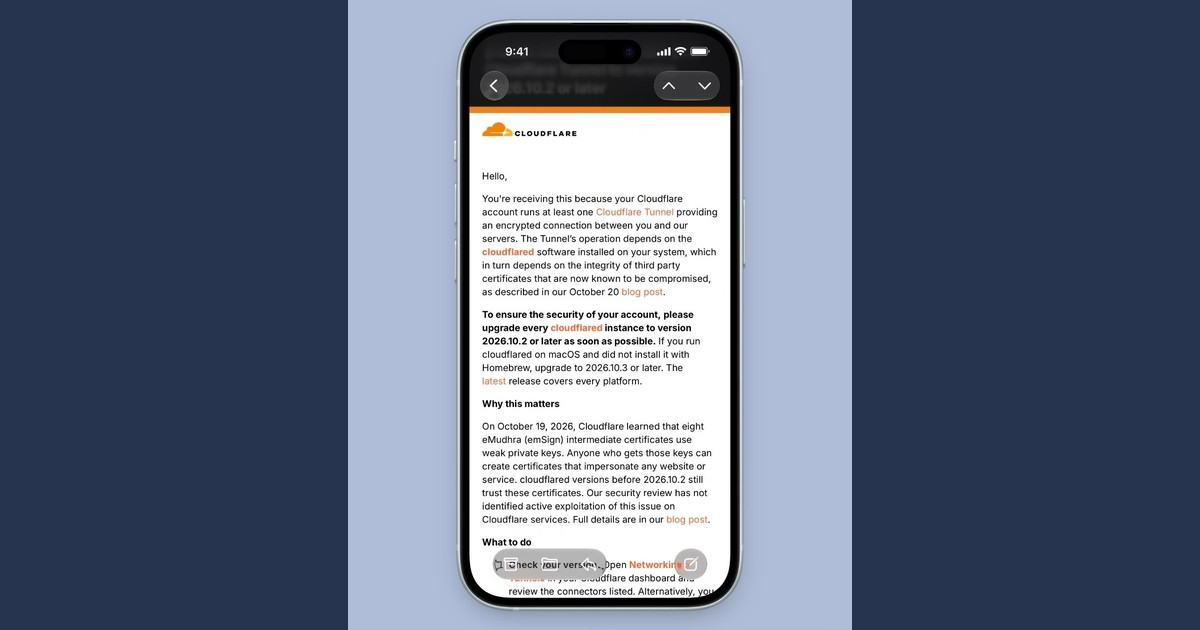
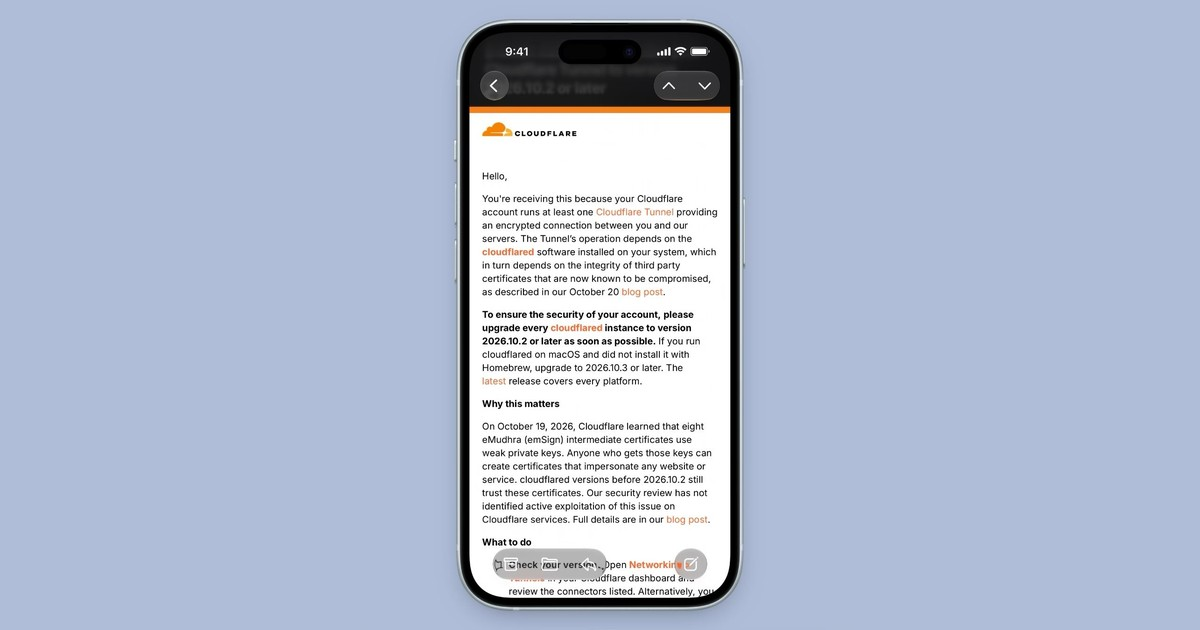
Use dark theme primary for OG fill and quarter size original thumbnails

diff --git a/blog/index.html b/blog/index.html
@@ -9,4 +9,4 @@
 <link rel="canonical" href="https://amansanoj.is-a.dev/blog/"></head><body><a class="skip" href="#main">Skip to Content</a><header>
   <a class="home" href="/#">Aman Sanoj</a>
   <nav aria-label="Main navigation"><a href="/#projects">Projects</a><a href="/#about">About</a><a href="/blog/">Blog</a><a href="mailto:me@amansanoj.com">Email</a></nav>
-</header><main id="main"><div class="blog-intro"><h1>Blog</h1></div><ul class="post-list"><li class="post-entry has-cover"><a class="post-cover-link" href="/blog/2026-11-09-the-emudhra-certificate-compromise-why-updating-your-browser-isnt-enough/" aria-label="The eMudhra Certificate Compromise: Why Updating Your Browser Isn’t Enough"><img class="post-cover-preview" src="/blog/2026-11-09-the-emudhra-certificate-compromise-why-updating-your-browser-isnt-enough/thumbnail.jpg" width="600" height="315" alt="" loading="lazy"></a><div class="post-entry-text"><time class="post-date" datetime="2026-11-09">09 November 2026</time><h2><a href="/blog/2026-11-09-the-emudhra-certificate-compromise-why-updating-your-browser-isnt-enough/">The eMudhra Certificate Compromise: Why Updating Your Browser Isn’t Enough</a></h2></div></li><li class="post-entry"><div class="post-entry-text"><time class="post-date" datetime="2026-10-03">03 October 2026</time><h2><a href="/blog/2026-10-03-courses-school-visits-and-classroom-discussions/">Courses, School Visits, and Classroom Discussions</a></h2></div></li><li class="post-entry"><div class="post-entry-text"><time class="post-date" datetime="2026-08-28">28 August 2026</time><h2><a href="/blog/2026-08-28-a-daily-coding-routine-with-neetcode/">A Daily Coding Routine with NeetCode</a></h2></div></li><li class="post-entry"><div class="post-entry-text"><time class="post-date" datetime="2026-07-19">19 July 2026</time><h2><a href="/blog/2026-07-19-recovering-my-iphone-after-a-beta-update/">Recovering My iPhone After a Beta Update</a></h2></div></li><li class="post-entry"><div class="post-entry-text"><time class="post-date" datetime="2026-07-11">11 July 2026</time><h2><a href="/blog/2026-07-11-transferring-files-to-an-iphone-with-vlc/">Transferring Files to an iPhone with VLC</a></h2></div></li><li class="post-entry"><div class="post-entry-text"><time class="post-date" datetime="2026-07-02">02 July 2026</time><h2><a href="/blog/2026-07-02-building-clarityai/">Building ClarityAI at the USAII Hackathon</a></h2></div></li><li class="post-entry"><div class="post-entry-text"><time class="post-date" datetime="2026-05-22">22 May 2026</time><h2><a href="/blog/2026-05-22-reporting-an-authorization-bug-in-the-cbse-pvr-portal/">Reporting an Authorization Bug in the CBSE PVR Portal</a></h2></div></li><li class="post-entry"><div class="post-entry-text"><time class="post-date" datetime="2025-06-07">07 June 2025</time><h2><a href="/blog/2025-06-07-building-gardenx-for-a-school-farm/">Building GardenX for a School Farm</a></h2></div></li></ul></main><footer><span>© <span id="year">2026</span> Aman Sanoj</span><label class="theme-control" for="theme"><span class="theme-icon theme-system"><svg class="icon" aria-hidden="true" focusable="false" xmlns="http://www.w3.org/2000/svg" viewBox="0 0 256 256" fill="currentColor"><path d="M224,64v88H32V64A16,16,0,0,1,48,48H208A16,16,0,0,1,224,64Z" opacity="0.2"/><path d="M208,40H48A24,24,0,0,0,24,64V176a24,24,0,0,0,24,24h72v16H96a8,8,0,0,0,0,16h64a8,8,0,0,0,0-16H136V200h72a24,24,0,0,0,24-24V64A24,24,0,0,0,208,40ZM48,56H208a8,8,0,0,1,8,8v80H40V64A8,8,0,0,1,48,56ZM208,184H48a8,8,0,0,1-8-8V160H216v16A8,8,0,0,1,208,184Z"/></svg></span><span class="theme-icon theme-light"><svg class="icon" aria-hidden="true" focusable="false" xmlns="http://www.w3.org/2000/svg" viewBox="0 0 256 256" fill="currentColor"><path d="M184,128a56,56,0,1,1-56-56A56,56,0,0,1,184,128Z" opacity="0.2"/><path d="M120,40V16a8,8,0,0,1,16,0V40a8,8,0,0,1-16,0Zm72,88a64,64,0,1,1-64-64A64.07,64.07,0,0,1,192,128Zm-16,0a48,48,0,1,0-48,48A48.05,48.05,0,0,0,176,128ZM58.34,69.66A8,8,0,0,0,69.66,58.34l-16-16A8,8,0,0,0,42.34,53.66Zm0,116.68-16,16a8,8,0,0,0,11.32,11.32l16-16a8,8,0,0,0-11.32-11.32ZM192,72a8,8,0,0,0,5.66-2.34l16-16a8,8,0,0,0-11.32-11.32l-16,16A8,8,0,0,0,192,72Zm5.66,114.34a8,8,0,0,0-11.32,11.32l16,16a8,8,0,0,0,11.32-11.32ZM48,128a8,8,0,0,0-8-8H16a8,8,0,0,0,0,16H40A8,8,0,0,0,48,128Zm80,80a8,8,0,0,0-8,8v24a8,8,0,0,0,16,0V216A8,8,0,0,0,128,208Zm112-88H216a8,8,0,0,0,0,16h24a8,8,0,0,0,0-16Z"/></svg></span><span class="theme-icon theme-dark"><svg class="icon" aria-hidden="true" focusable="false" xmlns="http://www.w3.org/2000/svg" viewBox="0 0 256 256" fill="currentColor"><path d="M227.89,147.89A96,96,0,1,1,108.11,28.11,96.09,96.09,0,0,0,227.89,147.89Z" opacity="0.2"/><path d="M233.54,142.23a8,8,0,0,0-8-2,88.08,88.08,0,0,1-109.8-109.8,8,8,0,0,0-10-10,104.84,104.84,0,0,0-52.91,37A104,104,0,0,0,136,224a103.09,103.09,0,0,0,62.52-20.88,104.84,104.84,0,0,0,37-52.91A8,8,0,0,0,233.54,142.23ZM188.9,190.34A88,88,0,0,1,65.66,67.11a89,89,0,0,1,31.4-26A106,106,0,0,0,96,56,104.11,104.11,0,0,0,200,160a106,106,0,0,0,14.92-1.06A89,89,0,0,1,188.9,190.34Z"/></svg></span><span>Theme</span><select id="theme"><option value="system">System</option><option value="light">Light</option><option value="dark">Dark</option></select></label><a href="/#">Back to Top</a></footer></body></html>
+</header><main id="main"><div class="blog-intro"><h1>Blog</h1></div><ul class="post-list"><li class="post-entry has-cover"><a class="post-cover-link" href="/blog/2026-11-09-the-emudhra-certificate-compromise-why-updating-your-browser-isnt-enough/" aria-label="The eMudhra Certificate Compromise: Why Updating Your Browser Isn’t Enough"><img class="post-cover-preview" src="/blog/2026-11-09-the-emudhra-certificate-compromise-why-updating-your-browser-isnt-enough/thumbnail.webp" width="270" height="337" alt="" loading="lazy"></a><div class="post-entry-text"><time class="post-date" datetime="2026-11-09">09 November 2026</time><h2><a href="/blog/2026-11-09-the-emudhra-certificate-compromise-why-updating-your-browser-isnt-enough/">The eMudhra Certificate Compromise: Why Updating Your Browser Isn’t Enough</a></h2></div></li><li class="post-entry"><div class="post-entry-text"><time class="post-date" datetime="2026-10-03">03 October 2026</time><h2><a href="/blog/2026-10-03-courses-school-visits-and-classroom-discussions/">Courses, School Visits, and Classroom Discussions</a></h2></div></li><li class="post-entry"><div class="post-entry-text"><time class="post-date" datetime="2026-08-28">28 August 2026</time><h2><a href="/blog/2026-08-28-a-daily-coding-routine-with-neetcode/">A Daily Coding Routine with NeetCode</a></h2></div></li><li class="post-entry"><div class="post-entry-text"><time class="post-date" datetime="2026-07-19">19 July 2026</time><h2><a href="/blog/2026-07-19-recovering-my-iphone-after-a-beta-update/">Recovering My iPhone After a Beta Update</a></h2></div></li><li class="post-entry"><div class="post-entry-text"><time class="post-date" datetime="2026-07-11">11 July 2026</time><h2><a href="/blog/2026-07-11-transferring-files-to-an-iphone-with-vlc/">Transferring Files to an iPhone with VLC</a></h2></div></li><li class="post-entry"><div class="post-entry-text"><time class="post-date" datetime="2026-07-02">02 July 2026</time><h2><a href="/blog/2026-07-02-building-clarityai/">Building ClarityAI at the USAII Hackathon</a></h2></div></li><li class="post-entry"><div class="post-entry-text"><time class="post-date" datetime="2026-05-22">22 May 2026</time><h2><a href="/blog/2026-05-22-reporting-an-authorization-bug-in-the-cbse-pvr-portal/">Reporting an Authorization Bug in the CBSE PVR Portal</a></h2></div></li><li class="post-entry"><div class="post-entry-text"><time class="post-date" datetime="2025-06-07">07 June 2025</time><h2><a href="/blog/2025-06-07-building-gardenx-for-a-school-farm/">Building GardenX for a School Farm</a></h2></div></li></ul></main><footer><span>© <span id="year">2026</span> Aman Sanoj</span><label class="theme-control" for="theme"><span class="theme-icon theme-system"><svg class="icon" aria-hidden="true" focusable="false" xmlns="http://www.w3.org/2000/svg" viewBox="0 0 256 256" fill="currentColor"><path d="M224,64v88H32V64A16,16,0,0,1,48,48H208A16,16,0,0,1,224,64Z" opacity="0.2"/><path d="M208,40H48A24,24,0,0,0,24,64V176a24,24,0,0,0,24,24h72v16H96a8,8,0,0,0,0,16h64a8,8,0,0,0,0-16H136V200h72a24,24,0,0,0,24-24V64A24,24,0,0,0,208,40ZM48,56H208a8,8,0,0,1,8,8v80H40V64A8,8,0,0,1,48,56ZM208,184H48a8,8,0,0,1-8-8V160H216v16A8,8,0,0,1,208,184Z"/></svg></span><span class="theme-icon theme-light"><svg class="icon" aria-hidden="true" focusable="false" xmlns="http://www.w3.org/2000/svg" viewBox="0 0 256 256" fill="currentColor"><path d="M184,128a56,56,0,1,1-56-56A56,56,0,0,1,184,128Z" opacity="0.2"/><path d="M120,40V16a8,8,0,0,1,16,0V40a8,8,0,0,1-16,0Zm72,88a64,64,0,1,1-64-64A64.07,64.07,0,0,1,192,128Zm-16,0a48,48,0,1,0-48,48A48.05,48.05,0,0,0,176,128ZM58.34,69.66A8,8,0,0,0,69.66,58.34l-16-16A8,8,0,0,0,42.34,53.66Zm0,116.68-16,16a8,8,0,0,0,11.32,11.32l16-16a8,8,0,0,0-11.32-11.32ZM192,72a8,8,0,0,0,5.66-2.34l16-16a8,8,0,0,0-11.32-11.32l-16,16A8,8,0,0,0,192,72Zm5.66,114.34a8,8,0,0,0-11.32,11.32l16,16a8,8,0,0,0,11.32-11.32ZM48,128a8,8,0,0,0-8-8H16a8,8,0,0,0,0,16H40A8,8,0,0,0,48,128Zm80,80a8,8,0,0,0-8,8v24a8,8,0,0,0,16,0V216A8,8,0,0,0,128,208Zm112-88H216a8,8,0,0,0,0,16h24a8,8,0,0,0,0-16Z"/></svg></span><span class="theme-icon theme-dark"><svg class="icon" aria-hidden="true" focusable="false" xmlns="http://www.w3.org/2000/svg" viewBox="0 0 256 256" fill="currentColor"><path d="M227.89,147.89A96,96,0,1,1,108.11,28.11,96.09,96.09,0,0,0,227.89,147.89Z" opacity="0.2"/><path d="M233.54,142.23a8,8,0,0,0-8-2,88.08,88.08,0,0,1-109.8-109.8,8,8,0,0,0-10-10,104.84,104.84,0,0,0-52.91,37A104,104,0,0,0,136,224a103.09,103.09,0,0,0,62.52-20.88,104.84,104.84,0,0,0,37-52.91A8,8,0,0,0,233.54,142.23ZM188.9,190.34A88,88,0,0,1,65.66,67.11a89,89,0,0,1,31.4-26A106,106,0,0,0,96,56,104.11,104.11,0,0,0,200,160a106,106,0,0,0,14.92-1.06A89,89,0,0,1,188.9,190.34Z"/></svg></span><span>Theme</span><select id="theme"><option value="system">System</option><option value="light">Light</option><option value="dark">Dark</option></select></label><a href="/#">Back to Top</a></footer></body></html>

diff --git a/scripts/build_blog.py b/scripts/build_blog.py
@@ -13,15 +13,19 @@ ROOT = Path(__file__).resolve().parents[1]
 
 def cover_variants(source, target):
     tokens = json.loads((ROOT / 'assets/vendor/brand-tokens.json').read_text())
-    background = tokens['color']['hex']['light']['base']['primary']
+    background = tokens['color']['hex']['dark']['base']['primary']
     with Image.open(source) as original:
         image = ImageOps.exif_transpose(original).convert('RGBA')
-        for name, size in [('thumbnail.jpg', (600, 315)), ('og.jpg', (1200, 630))]:
-            fitted = ImageOps.contain(image, size, Image.Resampling.LANCZOS)
-            canvas = Image.new('RGB', size, background)
-            position = ((size[0] - fitted.width) // 2, (size[1] - fitted.height) // 2)
-            canvas.paste(fitted, position, fitted)
-            canvas.save(target / name, quality=90, optimize=True)
+        thumbnail_size = (max(1, image.width // 4), max(1, image.height // 4))
+        thumbnail = image.resize(thumbnail_size, Image.Resampling.LANCZOS)
+        thumbnail.save(target / 'thumbnail.webp', quality=85, method=6)
+        size = (1200, 630)
+        fitted = ImageOps.contain(image, size, Image.Resampling.LANCZOS)
+        canvas = Image.new('RGB', size, background)
+        position = ((size[0] - fitted.width) // 2, (size[1] - fitted.height) // 2)
+        canvas.paste(fitted, position, fitted)
+        canvas.save(target / 'og.jpg', quality=90, optimize=True)
+        return thumbnail_size
 
 
 def build():
@@ -63,12 +67,12 @@ def build():
         shutil.copytree(readme.parent, target, ignore=shutil.ignore_patterns('README.md', 'index.html', '.*'))
         cover = next((name for name in ['cover.jpg', 'cover.png', 'cover.webp'] if (readme.parent / name).is_file()), None)
         if cover:
-            cover_variants(readme.parent / cover, target)
+            thumbnail_width, thumbnail_height = cover_variants(readme.parent / cover, target)
         cover_html = f'<img class="post-cover" src="{cover}" alt="{escape(title, quote=True)} — cover image" fetchpriority="high">' if cover else ''
         timestamp = f'<time class="post-date" datetime="{published}">{published.strftime("%d %B %Y")}</time>'
         body = f'<article><div class="blog-intro"><a href="/blog/">All Posts</a><h1>{escape(title)}</h1>{timestamp}</div>{cover_html}<div class="post-body">{content}</div></article>'
         (target / 'index.html').write_text(page(title + ' — Aman Sanoj', f'/blog/{slug}/', body, cover))
-        preview = f'<a class="post-cover-link" href="/blog/{slug}/" aria-label="{escape(title, quote=True)}"><img class="post-cover-preview" src="/blog/{slug}/thumbnail.jpg" width="600" height="315" alt="" loading="lazy"></a>' if cover else ''
+        preview = f'<a class="post-cover-link" href="/blog/{slug}/" aria-label="{escape(title, quote=True)}"><img class="post-cover-preview" src="/blog/{slug}/thumbnail.webp" width="{thumbnail_width}" height="{thumbnail_height}" alt="" loading="lazy"></a>' if cover else ''
         entries.append(f'<li class="post-entry{" has-cover" if cover else ""}">{preview}<div class="post-entry-text">{timestamp}<h2><a href="/blog/{slug}/">{escape(title)}</a></h2></div></li>')
     body = '<div class="blog-intro"><h1>Blog</h1></div>'
     body += '<ul class="post-list">' + ''.join(entries) + '</ul>' if entries else '<p>No posts yet.</p>'

diff --git a/README.md b/README.md
@@ -55,8 +55,9 @@ Generated `blog/` files are build output; edit `posts/` instead.
 
 Add `cover.jpg`, `cover.png`, or `cover.webp` beside a post’s README to show a cover on the post, a blog-list preview, and a social sharing image.
 
-Every cover is also rendered into a 600 × 315 `thumbnail.jpg` for the blog list
-and a 1200 × 630 `og.jpg` for social sharing. Images are fitted without cropping,
-centered, and padded with the brand’s dark navy primary (`color.hex.light.base.primary`).
+Every cover is also downscaled to one-quarter of its original width and height
+as `thumbnail.webp` for the blog list, preserving its aspect ratio without padding,
+and rendered as a 1200 × 630 `og.jpg` for social sharing. OG images are fitted without cropping,
+centered, and padded with the brand’s dark-theme primary (`color.hex.dark.base.primary`).
 EXIF orientation is applied before resizing. Upload only the original cover beside
 `README.md` in `posts/`; the Action generates both variants on each deployment.
